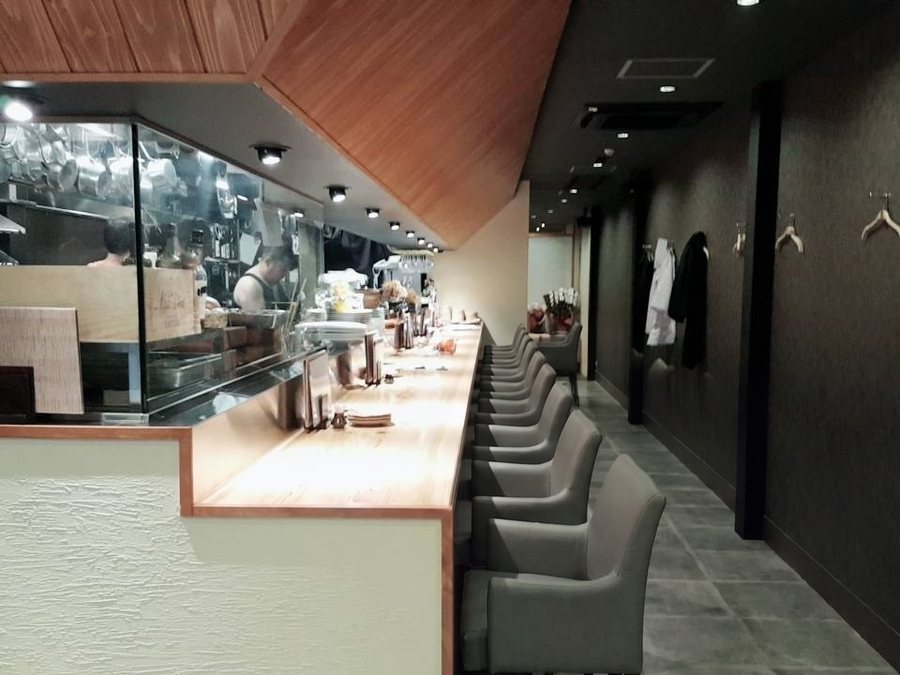
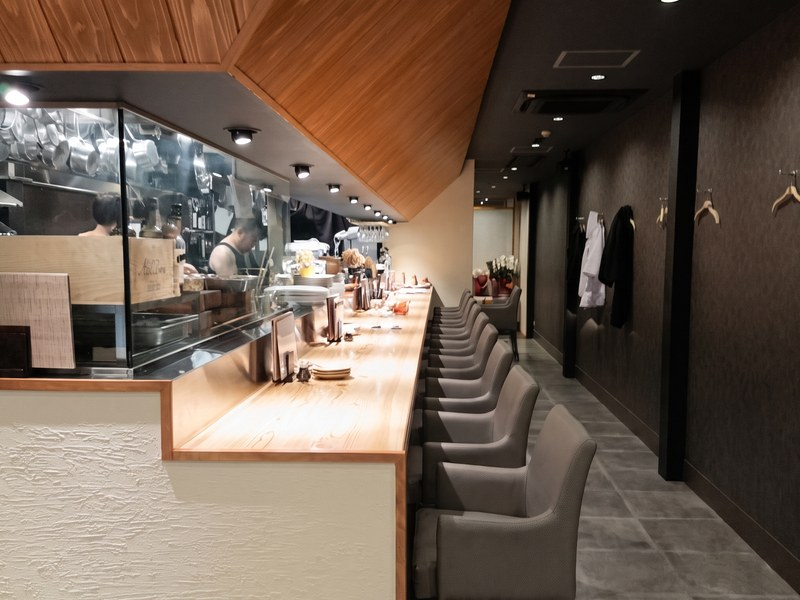
施工事例5件（厨房大・よっちゃん・串焼きのたつみ・BOWWOW Laugh・貴兆陶家）の写真をプロ風に補正した版に差し替え

diff --git a/index.html b/index.html
@@ -496,7 +496,7 @@ a:hover{color:var(--gold-deep)}
     </div>
     <div class="works-grid">
       <article class="work">
-        <img class="work-img" src="assets/works/dai.jpg" alt="厨房 大のカウンター席" width="800" height="600" loading="lazy">
+        <img class="work-img" src="assets/works/dai.jpg?v=2" alt="厨房 大のカウンター席" width="800" height="600" loading="lazy">
         <div class="work-meta">飲食店｜大分市中央町</div>
         <h3 class="work-title">厨房 大</h3>
         <p class="work-scope">設計デザイン／新装・内装工事一式／看板</p>
@@ -504,7 +504,7 @@ a:hover{color:var(--gold-deep)}
         <a class="work-link" href="https://www.instagram.com/dai___0913/" target="_blank" rel="noopener">Instagram を見る<svg width="14" height="14" viewBox="0 0 24 24" fill="none" stroke="currentColor" stroke-width="2" stroke-linecap="round" stroke-linejoin="round" aria-hidden="true"><path d="M7 17L17 7"/><path d="M8 7h9v9"/></svg></a>
       </article>
       <article class="work">
-        <img class="work-img" src="assets/works/yocchan.jpg" alt="汐彩割烹 よっちゃんの個室" width="800" height="600" loading="lazy">
+        <img class="work-img" src="assets/works/yocchan.jpg?v=2" alt="汐彩割烹 よっちゃんの個室" width="800" height="600" loading="lazy">
         <div class="work-meta">飲食店｜大分市中央町</div>
         <h3 class="work-title">汐彩割烹 よっちゃん</h3>
         <p class="work-scope">設計デザイン／新装・内装工事一式／看板</p>
@@ -520,7 +520,7 @@ a:hover{color:var(--gold-deep)}
         <a class="work-link" href="https://akr4348986526.owst.jp/" target="_blank" rel="noopener">お店のサイトを見る<svg width="14" height="14" viewBox="0 0 24 24" fill="none" stroke="currentColor" stroke-width="2" stroke-linecap="round" stroke-linejoin="round" aria-hidden="true"><path d="M7 17L17 7"/><path d="M8 7h9v9"/></svg></a>
       </article>
       <article class="work">
-        <img class="work-img" src="assets/works/kushiyaki-tatsumi.jpg" alt="串焼きのたつみの店内" width="800" height="600" loading="lazy">
+        <img class="work-img" src="assets/works/kushiyaki-tatsumi.jpg?v=2" alt="串焼きのたつみの店内" width="800" height="600" loading="lazy">
         <div class="work-meta">飲食店｜大分市府内町</div>
         <h3 class="work-title">串焼きのたつみ</h3>
         <p class="work-scope">設計デザイン／新装・内装工事一式／看板</p>
@@ -552,7 +552,7 @@ a:hover{color:var(--gold-deep)}
         <a class="work-link" href="https://utano-beppu.com/" target="_blank" rel="noopener">お店のサイトを見る<svg width="14" height="14" viewBox="0 0 24 24" fill="none" stroke="currentColor" stroke-width="2" stroke-linecap="round" stroke-linejoin="round" aria-hidden="true"><path d="M7 17L17 7"/><path d="M8 7h9v9"/></svg></a>
       </article>
       <article class="work">
-        <img class="work-img" src="assets/works/bowwow-laugh.jpg?v=2" alt="BOWWOW Laughの店内（段差のある床と仕切り壁）" width="800" height="600" loading="lazy">
+        <img class="work-img" src="assets/works/bowwow-laugh.jpg?v=3" alt="BOWWOW Laughの店内（段差のある床と仕切り壁）" width="800" height="600" loading="lazy">
         <div class="work-meta">ペットサロン｜別府市北浜</div>
         <h3 class="work-title">BOWWOW Laugh（バウワウ ラフ）</h3>
         <p class="work-scope">新装・内装工事一式</p>
@@ -560,7 +560,7 @@ a:hover{color:var(--gold-deep)}
         <a class="work-link" href="https://bowwow.laughgarden.jp/" target="_blank" rel="noopener">お店のサイトを見る<svg width="14" height="14" viewBox="0 0 24 24" fill="none" stroke="currentColor" stroke-width="2" stroke-linecap="round" stroke-linejoin="round" aria-hidden="true"><path d="M7 17L17 7"/><path d="M8 7h9v9"/></svg></a>
       </article>
       <article class="work">
-        <img class="work-img" src="assets/works/kicchoutouya.jpg?v=2" alt="芦屋 貴兆陶家 別府店の店構え" width="800" height="600" loading="lazy">
+        <img class="work-img" src="assets/works/kicchoutouya.jpg?v=3" alt="芦屋 貴兆陶家 別府店の店構え" width="800" height="600" loading="lazy">
         <div class="work-meta">器・陶器の店｜別府市駅前町（JR別府駅 えきマチ1丁目）</div>
         <h3 class="work-title">芦屋 貴兆陶家 別府店</h3>
         <p class="work-scope">新装・内装工事一式／看板</p>
